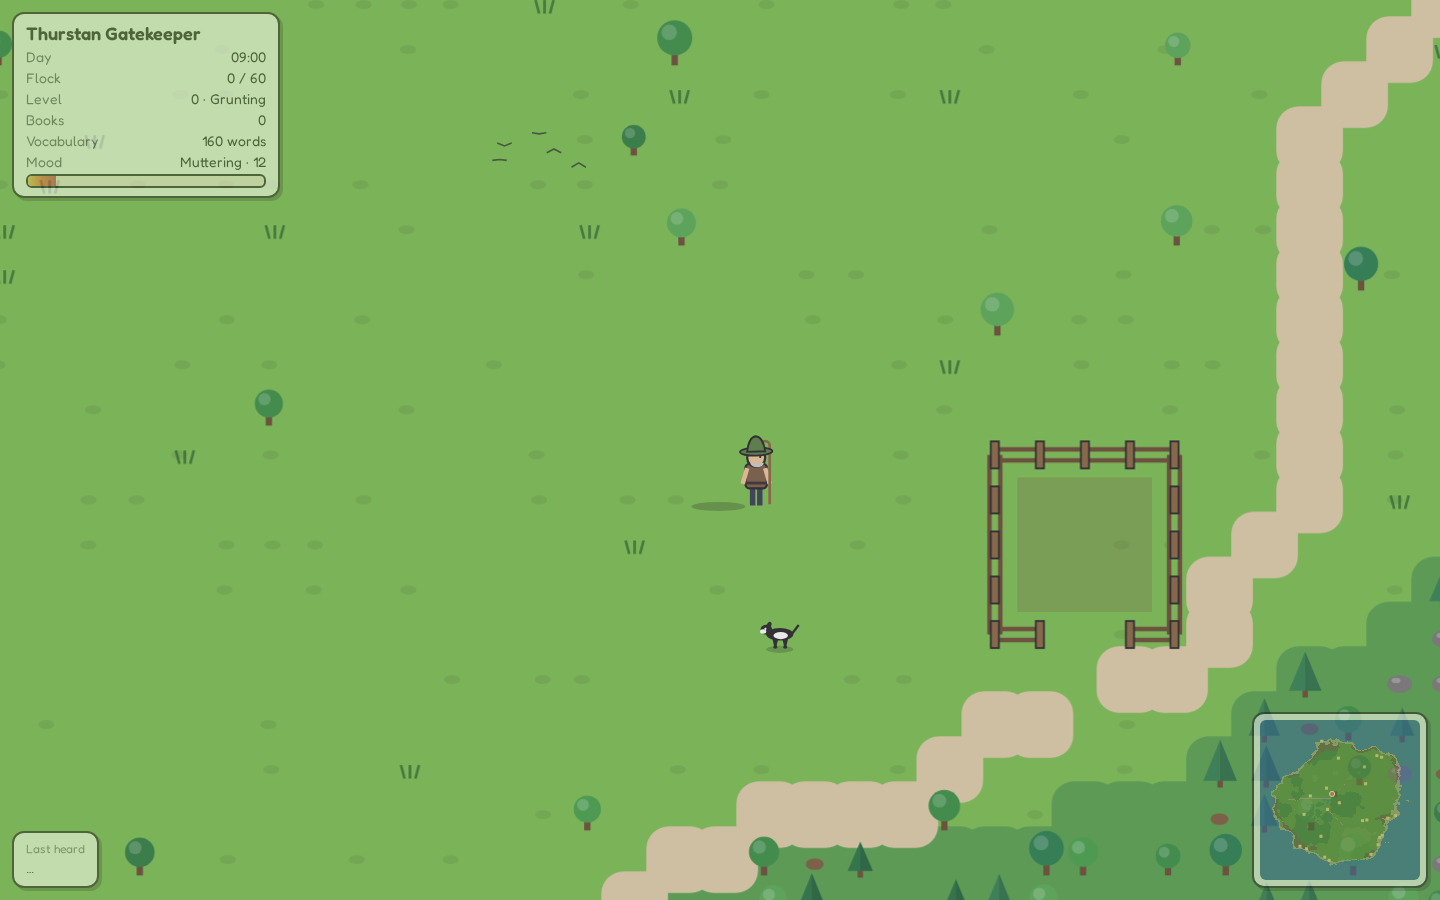
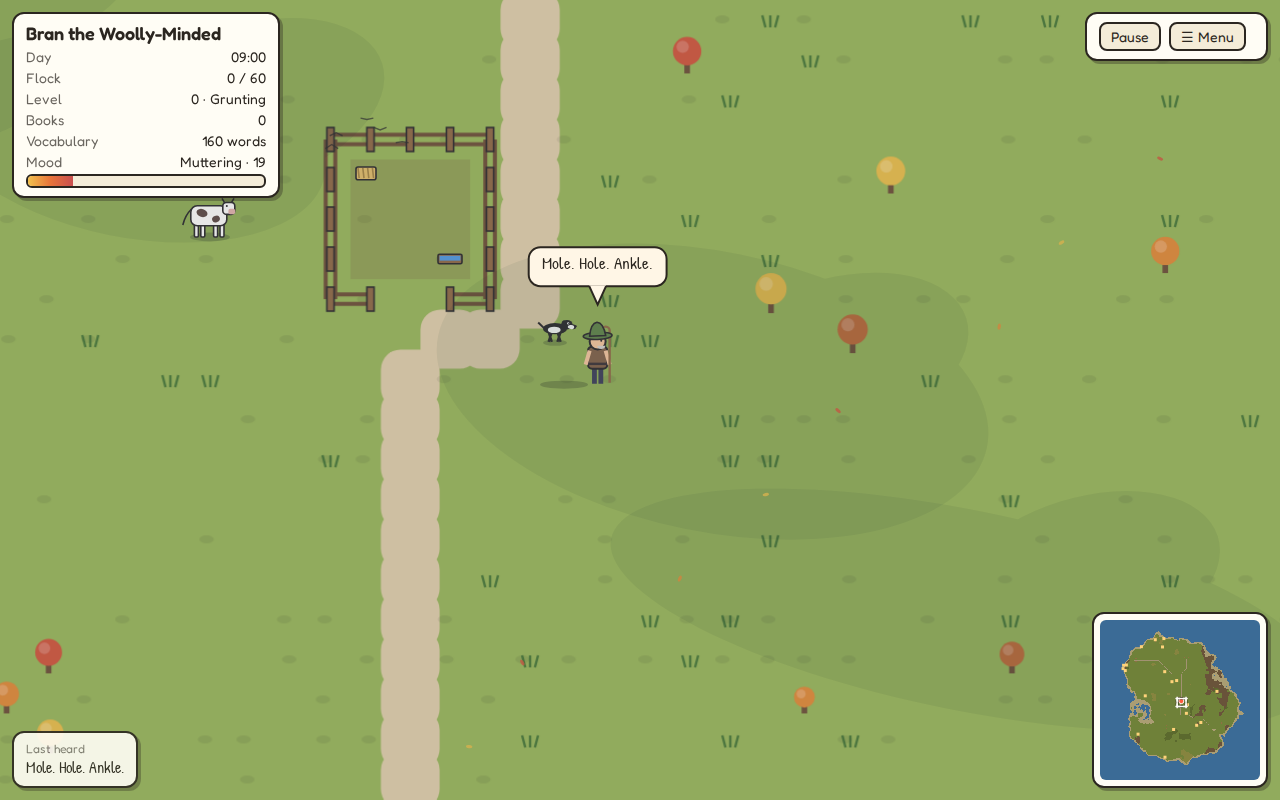
README: fresh stills and a twenty-second GIF; release-candidate status

diff --git a/STATUS.md b/STATUS.md
@@ -38,26 +38,26 @@ Frame rate: the draw takes 1–3 ms on a MacBook Air (7 ms outliers), so the gam
 - **Looking around.** The minimap shows the viewport as a reticle; click or hold-and-drag on it to look anywhere on the island, and the view glides back to the herder two seconds after release. Covered by a Playwright test.
 - `scratch/` is ignored by git.
 
-## Backlog (re-cut 2026-09-07, evening)
+## Backlog (2026-09-07, night: release candidate)
 
 ```
  P0  Must be right for a screensaver that runs all day
-     [ ] Confirm on the Air: a full day, then a second herder, no sea over the island (fix deployed)
-     [x] Frame rate: was pinned at 30 by the browser on the Air; the cap now defaults to "display rate"
-         (60, 120 Hz…) and ?stats=1 shows what the browser delivers vs what we draw. Draw is 1–3 ms.
+     [x] Confirmed on the Air: a full day, then a second herder, no sea over the island
+     [x] Frame rate: cap defaults to display rate; draw is 1–3 ms
      [x] Memorial stone text stays on the stone
+     [x] README refreshed: seven stills and a 20 s GIF of him at work
  P1  Things a viewer will notice
-     [x] Phones get the look-around: a Map button in the toolbar pops a larger minimap; drag to look
-     [ ] Language: cut weakest templates per release; `self` facet for "I am #adj#"
-     [ ] Flyting as a real duel (needs a new shape now the dots are gone)
-     [ ] Tombstone rising in the world during the end fade
-     [ ] Sheep walk animation while wandering; flee dash
- P2  Nice to have
-     [ ] README screenshots and a 20 s GIF
-     [ ] A second Jerome-style book for levels 7–8
- Decided
-     Sound: never.  P3: removed.  Web Worker: not planned.
-     Service worker: dropped (too complicated for what it buys).  Keyboard shortcuts: skipped.
+     [x] Phones get the look-around (Map button)
+     [x] Flyting is a duel: he insults the notorious sheep, it baas back, he cannot let that stand, it baas louder, he gets the last word, it says "meh."
+     [x] The tombstone rises out of the ground beside the pen at dusk, his last words engraved
+     [x] Sheep legs keep time with speed; bolting sheep stretch out and kick up dust
+     [x] Speech bubbles never cover the herder or the sheep on his shoulders
+     [ ] Language: cut the weakest templates from a transcript read each release (ongoing housekeeping)
+ Dropped / decided
+     Sound: never.  P3: removed.  Web Worker: not planned.  Service worker: dropped.
+     Keyboard shortcuts: skipped.  Second Jerome-style book: dropped.
+
+ → Awaiting sign-off for 1.0.  On sign-off: bump package.json to 1.0.0, tag v1.0.0, deploy.
 ```
 
 ## How to check things

diff --git a/README.md b/README.md
@@ -16,15 +16,21 @@ sentence structures. Filthy, never cruel.
 
 **Play:** https://hunterdavis.com/curse-of-the-herder/
 
-![Dawn by the pen: the herder, his crook, and a sheepdog who will not be helping](docs/img/herder-and-dog.png)
+![Twenty seconds of a cursed herder at work](docs/img/rant.gif)
 
-![A morning on the road: the herder carries a sheep past an emptied library box](docs/img/morning-road.png)
+![Dawn by the pen: the herder, his crook, a cow, and a sheepdog who will not be helping](docs/img/herder-and-dog.png)
+
+![Mid-morning: a sheep on his shoulders and a book's worth of new words](docs/img/afternoon.png)
+
+![The neighbour walks past with Patience, Prudence and Also Prudence in a line; even the dog goes to look](docs/img/neighbour.png)
 
 ![A village: Tupsley's signpost, a little free library, and a sheep on a roof](docs/img/village-roof-sheep.png)
 
 ![Winter in Tupsley: snow, grey trees, washing on the line, scarecrows in the field](docs/img/winter-village.png)
 
-![Dusk: the tombstone card at the end of a day](docs/img/ending.png)
+![Dusk: the last sheep is in, the neighbour passes once more, and a stone rises beside the pen with his last words on it](docs/img/ending.png)
+
+![On a phone: the Map button pops the minimap; drag on it to look around the island](docs/img/phone.png)
 
 ## Running it
 

diff --git a/BACKLOG.md b/BACKLOG.md
@@ -96,7 +96,7 @@ long soak.
 
 ## P0 — Must be right for a screensaver that runs all day
 
-- [ ] Confirm on the MacBook Air: a full day, then a second herder, no sea over the island (fix deployed 2026-09-07).
+- [x] Confirmed on the MacBook Air 2026-09-07: a full day, then a second herder, no sea over the island.
 - [x] Frame rate: the cap defaults to the display rate (60, 120 Hz…); `?stats=1` shows browser delivery vs drawn frames. Draw is 1–3 ms on the Air; a 30 fps reading was the browser's low-power throttle, not us.
 - [x] Memorial stone text stays on the stone (measured wrap and clip; verified at ratio 3).
 
@@ -111,7 +111,7 @@ long soak.
 
 ## P2 — Nice to have
 
-- [ ] README screenshots refreshed and a 20 s GIF (P0 for 1.0).
+- [x] README screenshots refreshed (seven stills, `node scripts/shot-readme.mjs`) and a 20 s GIF assembled with ffmpeg (`docs/img/rant.gif`, 1.8 MB).
 
 ## Decided
 
